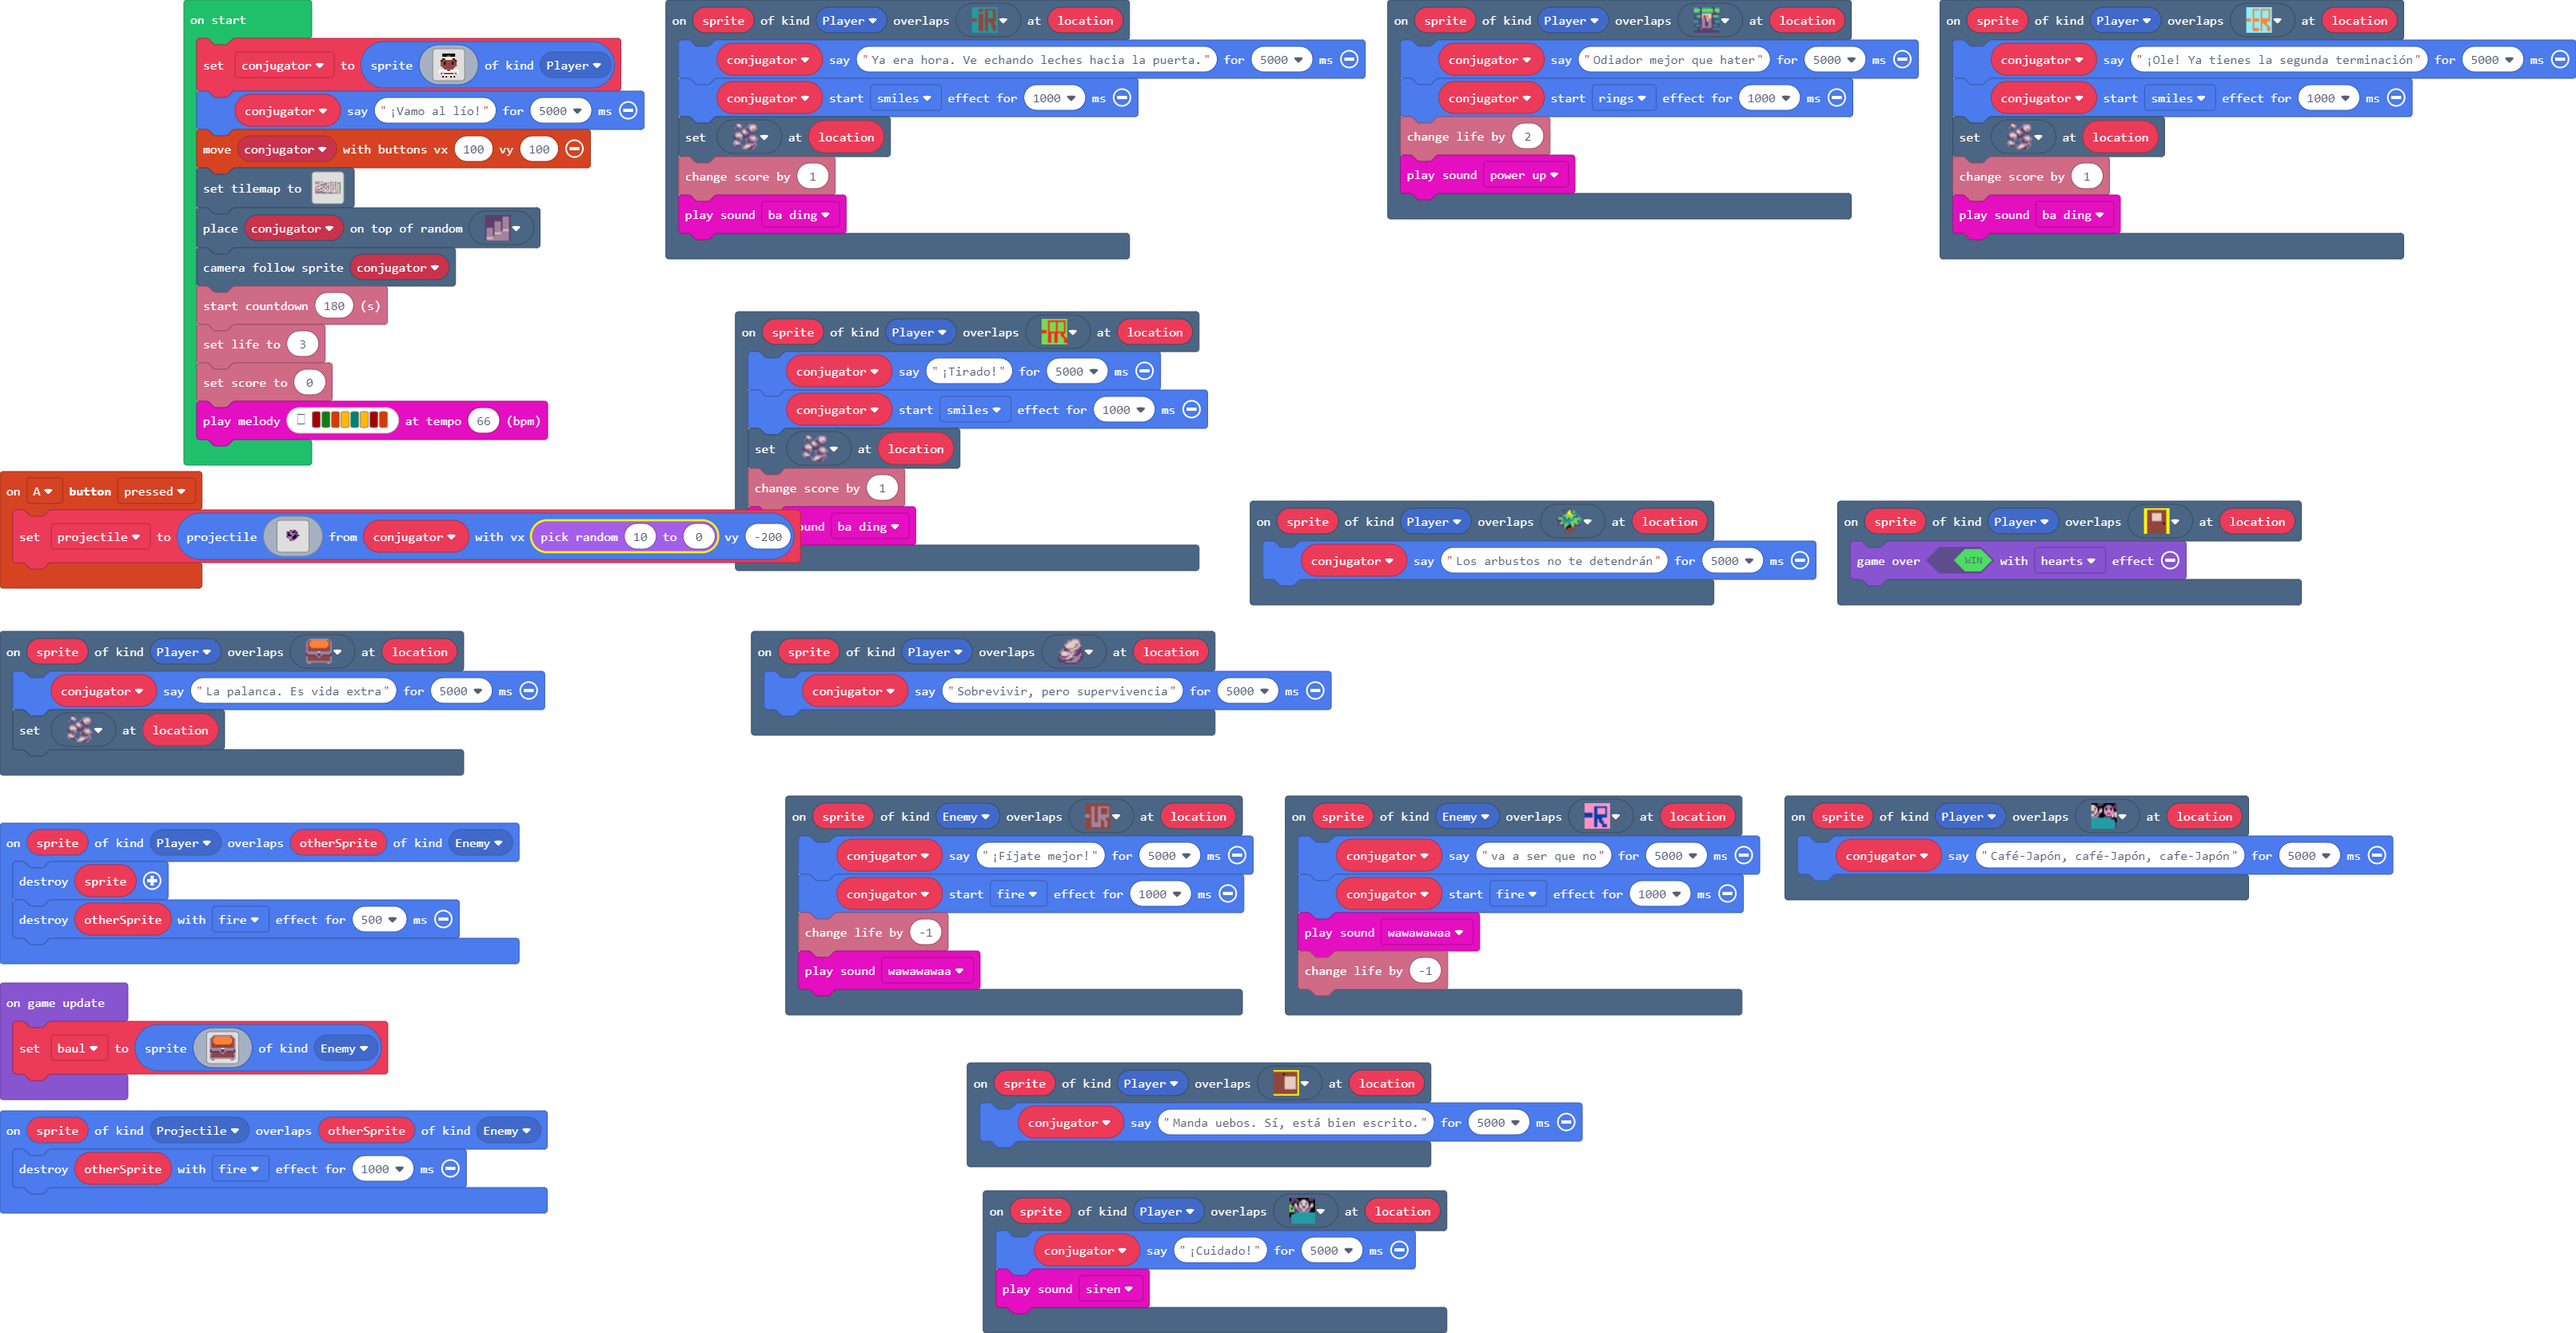
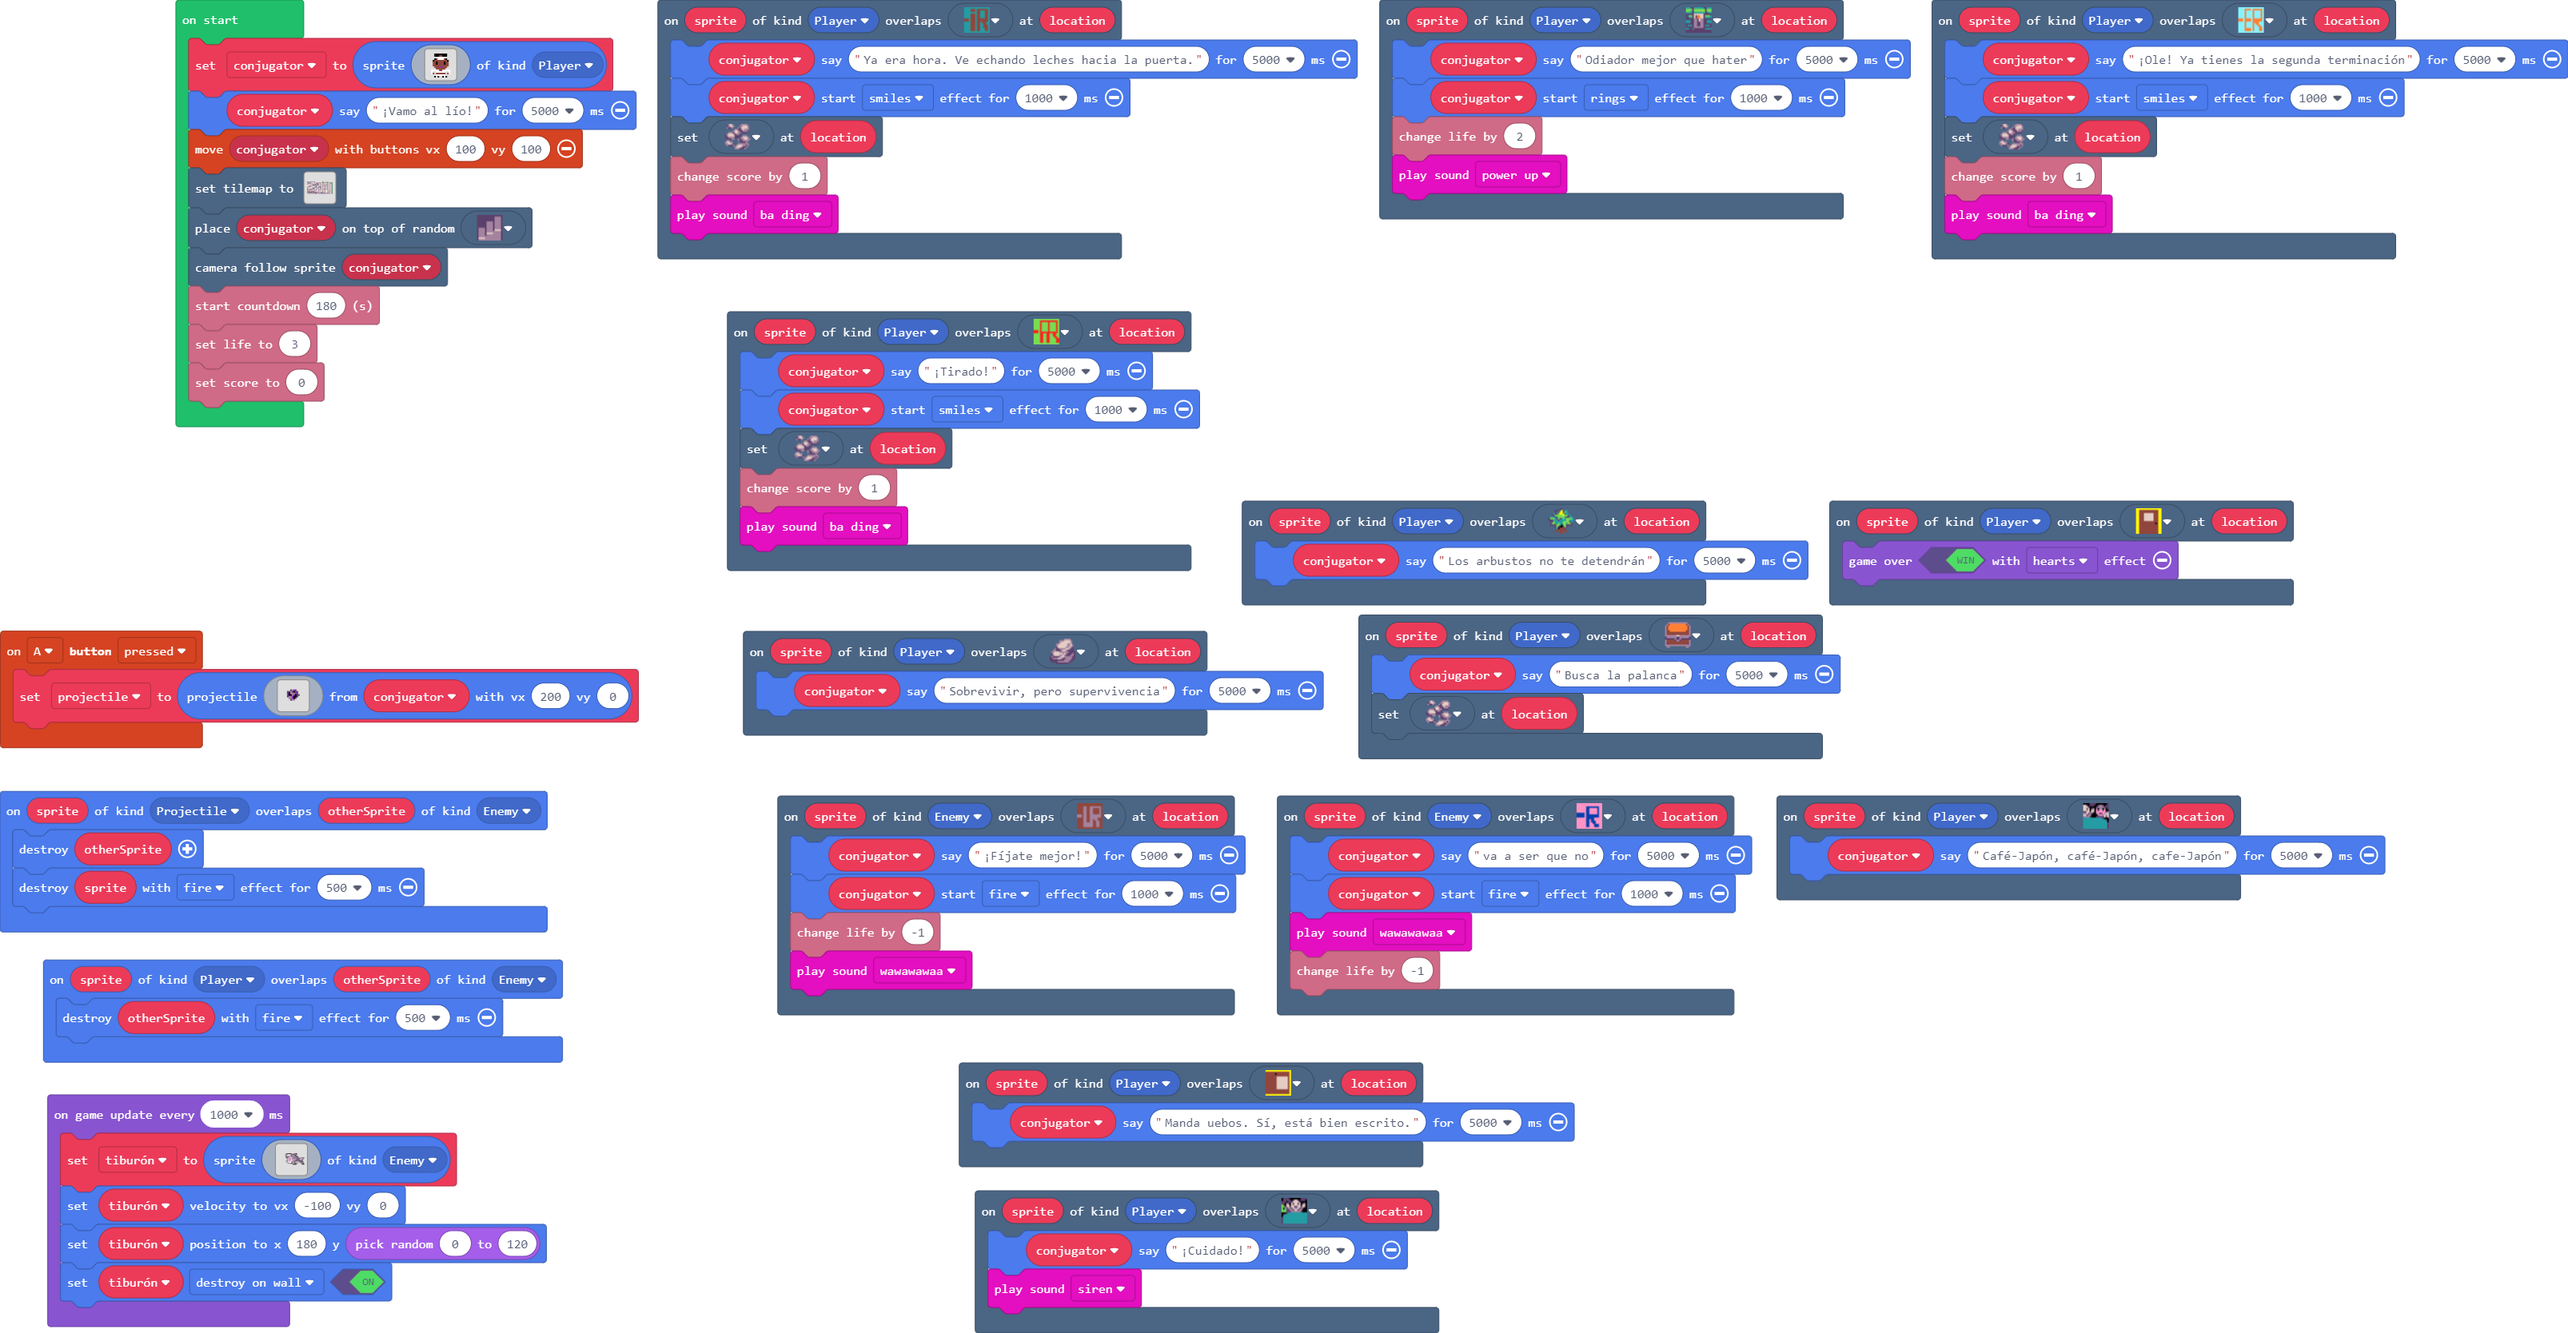
Update main.blocks, main.ts

diff --git a/main.ts b/main.ts
@@ -201,7 +201,8 @@ scene.onOverlapTile(SpriteKind.Player, sprites.castle.rock1, function (sprite, l
     conjugator.say("Sobrevivir, pero supervivencia", 5000)
 })
 sprites.onOverlap(SpriteKind.Projectile, SpriteKind.Enemy, function (sprite, otherSprite) {
-    otherSprite.destroy(effects.fire, 1000)
+    otherSprite.destroy()
+    sprite.destroy(effects.fire, 500)
 })
 controller.A.onEvent(ControllerButtonEvent.Pressed, function () {
     projectile = sprites.createProjectileFromSprite(img`
@@ -221,10 +222,9 @@ controller.A.onEvent(ControllerButtonEvent.Pressed, function () {
 . . . . . . . . . . . . . . . . 
 . . . . . . . . . . . . . . . . 
 . . . . . . . . . . . . . . . . 
-`, conjugator, Math.randomRange(10, 0), -200)
+`, conjugator, 200, 0)
 })
 sprites.onOverlap(SpriteKind.Player, SpriteKind.Enemy, function (sprite, otherSprite) {
-    sprite.destroy()
     otherSprite.destroy(effects.fire, 500)
 })
 scene.onOverlapTile(SpriteKind.Enemy, myTiles.tile5, function (sprite, location) {
@@ -244,7 +244,7 @@ scene.onOverlapTile(SpriteKind.Player, myTiles.tile7, function (sprite, location
     music.baDing.play()
 })
 scene.onOverlapTile(SpriteKind.Player, sprites.dungeon.chestClosed, function (sprite, location) {
-    conjugator.say("La palanca. Es vida extra", 5000)
+    conjugator.say("Busca la palanca", 5000)
     tiles.setTileAt(location, sprites.castle.rock2)
 })
 scene.onOverlapTile(SpriteKind.Player, myTiles.tile2, function (sprite, location) {
@@ -260,7 +260,7 @@ scene.onOverlapTile(SpriteKind.Enemy, myTiles.tile8, function (sprite, location)
     info.changeLifeBy(-1)
     music.wawawawaa.play()
 })
-let baul: Sprite = null
+let tiburón: Sprite = null
 let projectile: Sprite = null
 let conjugator: Sprite = null
 conjugator = sprites.create(img`
@@ -307,24 +307,26 @@ scene.cameraFollowSprite(conjugator)
 info.startCountdown(180)
 info.setLife(3)
 info.setScore(0)
-music.playMelody("C5 G B A F A C5 B ", 66)
-game.onUpdate(function () {
-    baul = sprites.create(img`
-. . b b b b b b b b b b b b . . 
-. b e 4 4 4 4 4 4 4 4 4 4 e b . 
-b e 4 4 4 4 4 4 4 4 4 4 4 4 e b 
-b e 4 4 4 4 4 4 4 4 4 4 4 4 e b 
-b e 4 4 4 4 4 4 4 4 4 4 4 4 e b 
-b e e 4 4 4 4 4 4 4 4 4 4 e e b 
-b e e e e e e e e e e e e e e b 
-b e e e e e e e e e e e e e e b 
-b b b b b b b d d b b b b b b b 
-c b b b b b b c c b b b b b b c 
-c c c c c c b c c b c c c c c c 
-b e e e e e c b b c e e e e e b 
-b e e e e e e e e e e e e e e b 
-b c e e e e e e e e e e e e c b 
-b b b b b b b b b b b b b b b b 
-. b b . . . . . . . . . . b b . 
+game.onUpdateInterval(1000, function () {
+    tiburón = sprites.create(img`
+. . . . . . . . . . . f f f f f f f . . . c c f f f . . . . . . . . . . 
+. . . . . . . . . . f b b b b b b b f f c b b b b f . . . . . . . . . . 
+. . . . . . . . . . f b b 1 1 1 b b b b b f f b f . . . . . . . . . . . 
+. . . . . . . . . . f b 1 1 1 1 1 f f b b b b f f . . . . . . . . . . . 
+. . . . . . . . . . f 1 c c c c 1 f f b b b b b c f f . . . . . . . . . 
+. . . . . . . . . . f f c 1 c 1 c 1 b b c b c b c c c f . . . . . . . . 
+. . . . . . . . . . . f c c 3 3 3 1 b b b c b c b c c c f . . c c c c c 
+. . . . . . . . . . . . c 3 3 3 c 1 b b b c b c b c c c c f c d d b b c 
+. . . . . . . . . . . . c 3 3 3 c 1 b b b b b b b c c c c c d d b c c . 
+. . . . . . . . . . . . c 3 3 3 c 1 1 b b b b b c c c c c c b b c c . . 
+. . . . . . . . . . . c c 3 3 1 c 1 1 b b b b c c c c c c f b c c f . . 
+. . . . . . . . . . . c c 1 3 c 1 1 c b b b c c c c c b b c f c c f . . 
+. . . . . . . . . . . c 1 1 1 1 1 1 c b b b f d d d d d c . f b b c f . 
+. . . . . . . . . . . . c c 1 1 1 1 f b d b b f d d d c . . . f b b f . 
+. . . . . . . . . . . . . . c c c f f f b d b b f c c . . . . . f b b f 
+. . . . . . . . . . . . . . . . . . . . f f f f f . . . . . . . . f f f 
 `, SpriteKind.Enemy)
+    tiburón.setVelocity(-100, 0)
+    tiburón.setPosition(180, Math.randomRange(0, 120))
+    tiburón.setFlag(SpriteFlag.DestroyOnWall, true)
 })
